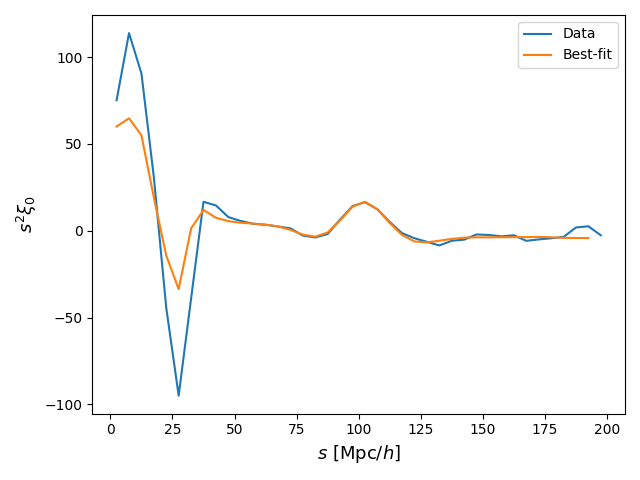
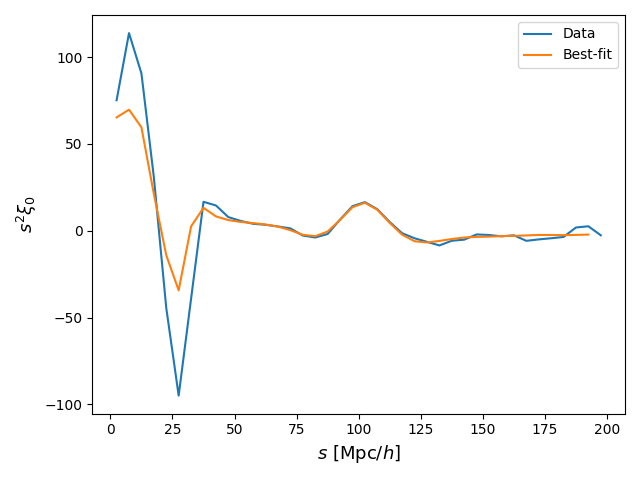
Added a test with Zues

diff --git a/src/fit.py b/src/fit.py
@@ -392,11 +392,14 @@ if __name__ == '__main__':
     s_obs, xi_obs = np.loadtxt(args.ifile, usecols=(0,1), unpack=True)
 
     # Initialize fitter
-    bao_fitter = BAO_Fitter(plin_fn = args.plin, plin_nw_fn=args.pnw, pnw_temp_fn = args.ptemp, prior_params = ((0.8, 1.2), (0, 25), (0,30)), prior_types=('flat', 'flat', 'flat'), backend = 'multinest')
+    bao_fitter = BAO_Fitter(plin_fn = args.plin, plin_nw_fn=args.pnw, pnw_temp_fn = args.ptemp, 
+                            prior_params = ((0.8, 1.2), (0, 25), (0,30)), 
+                            prior_types=('flat', 'flat', 'flat'), 
+                            backend = 'zeus')
     # Initialize (compute) covariance matrix if necessary, else set attributes with an appropriate one
     bao_fitter.compute_covariance(mocks)
 
-    best_params = bao_fitter.fit_analyze(xi_obs, s_obs, nsteps=10, resume=True)
+    best_params = bao_fitter.fit_analyze(xi_obs, s_obs, nsteps=500, resume=True)
     # Zeus backend: 4m52s 500 steps
     # Zeus backend: 17m31s 2000 steps
     # Multinest backend 3m22s
